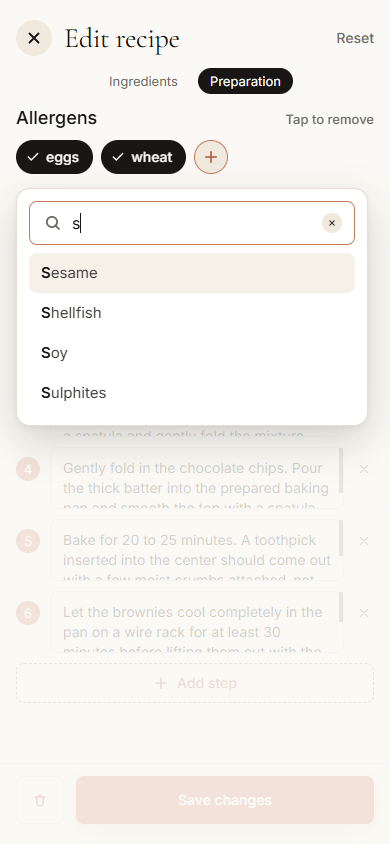
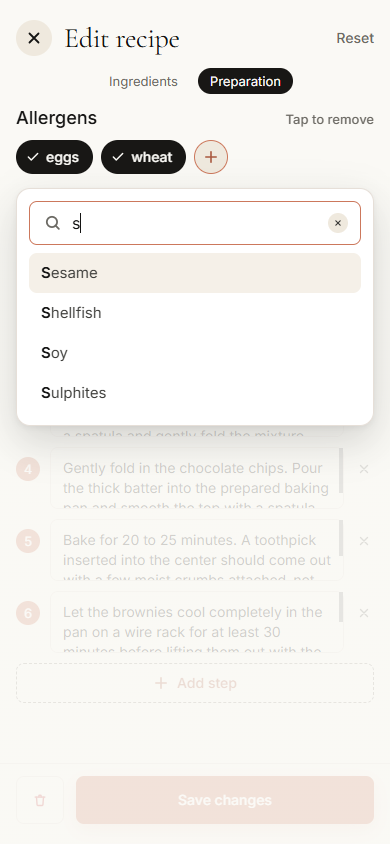
fix: match allergen popover width to Paper

Changed region(s): [[0.8923, 0.2464, 0.9538, 0.5237], [0.8308, 0.2464, 0.8923, 0.2773], [0.8923, 0.2156, 0.9231, 0.2464]]

diff --git a/src/pages/RecipeEditPage/AllergenPicker/AllergenPicker.tsx b/src/pages/RecipeEditPage/AllergenPicker/AllergenPicker.tsx
@@ -66,7 +66,7 @@ export function AllergenPicker({ selected, onToggle }: Props) {
           onCancel={picker.dismiss}
           onClose={picker.dismiss}
           onClick={picker.onBackdropClick}
-          className="allergen-popover fixed m-0 overflow-auto rounded-[14px] border border-hairline bg-white p-3 text-ink shadow-[0_16px_40px_#14141329,0_2px_6px_#1414130F]"
+          className="allergen-popover fixed m-0 max-w-none overflow-auto rounded-[14px] border border-hairline bg-white p-3 text-ink shadow-[0_16px_40px_#14141329,0_2px_6px_#1414130F]"
         >
           <div className="flex h-11 shrink-0 items-center gap-2.5 rounded-input border-[1.5px] border-brand-primary pl-3.5 pr-3">
             <IconSearch className="h-[18px] w-[18px] shrink-0 text-ink-muted" />
